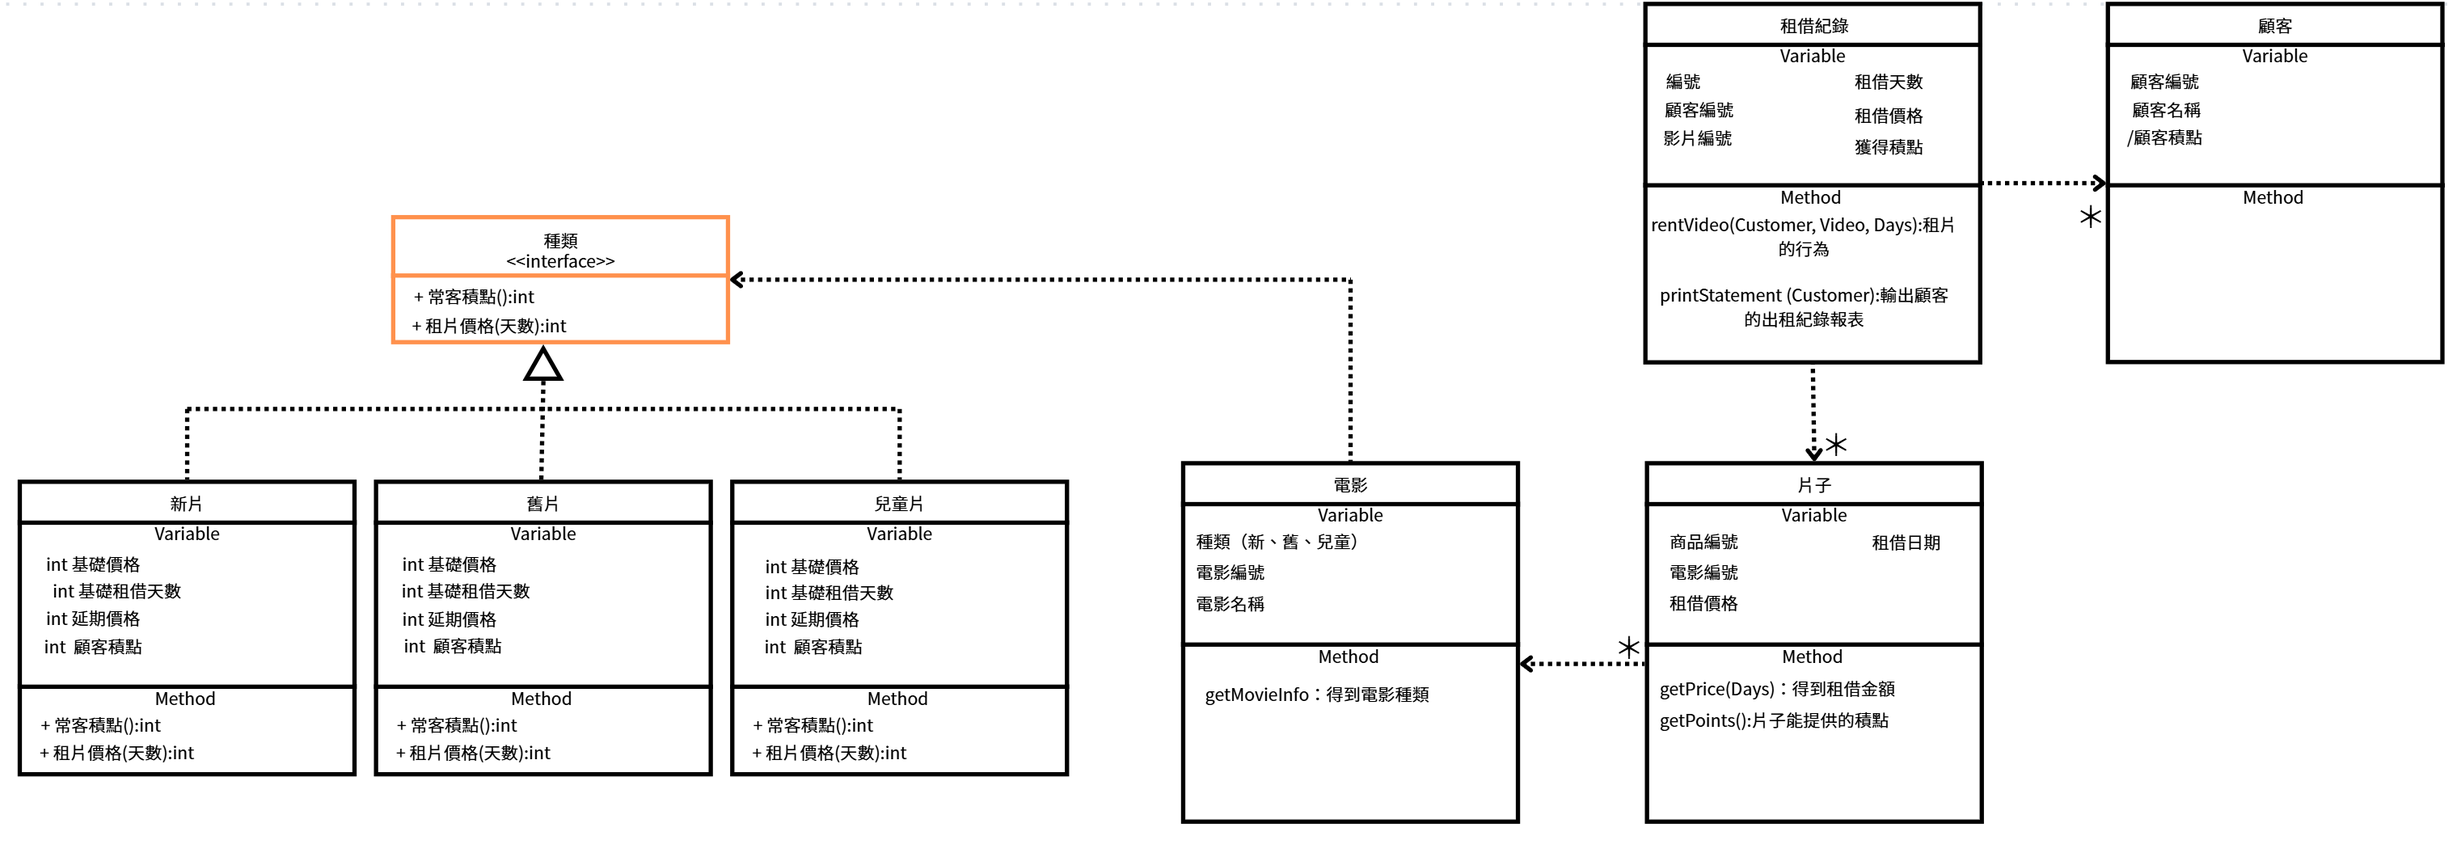
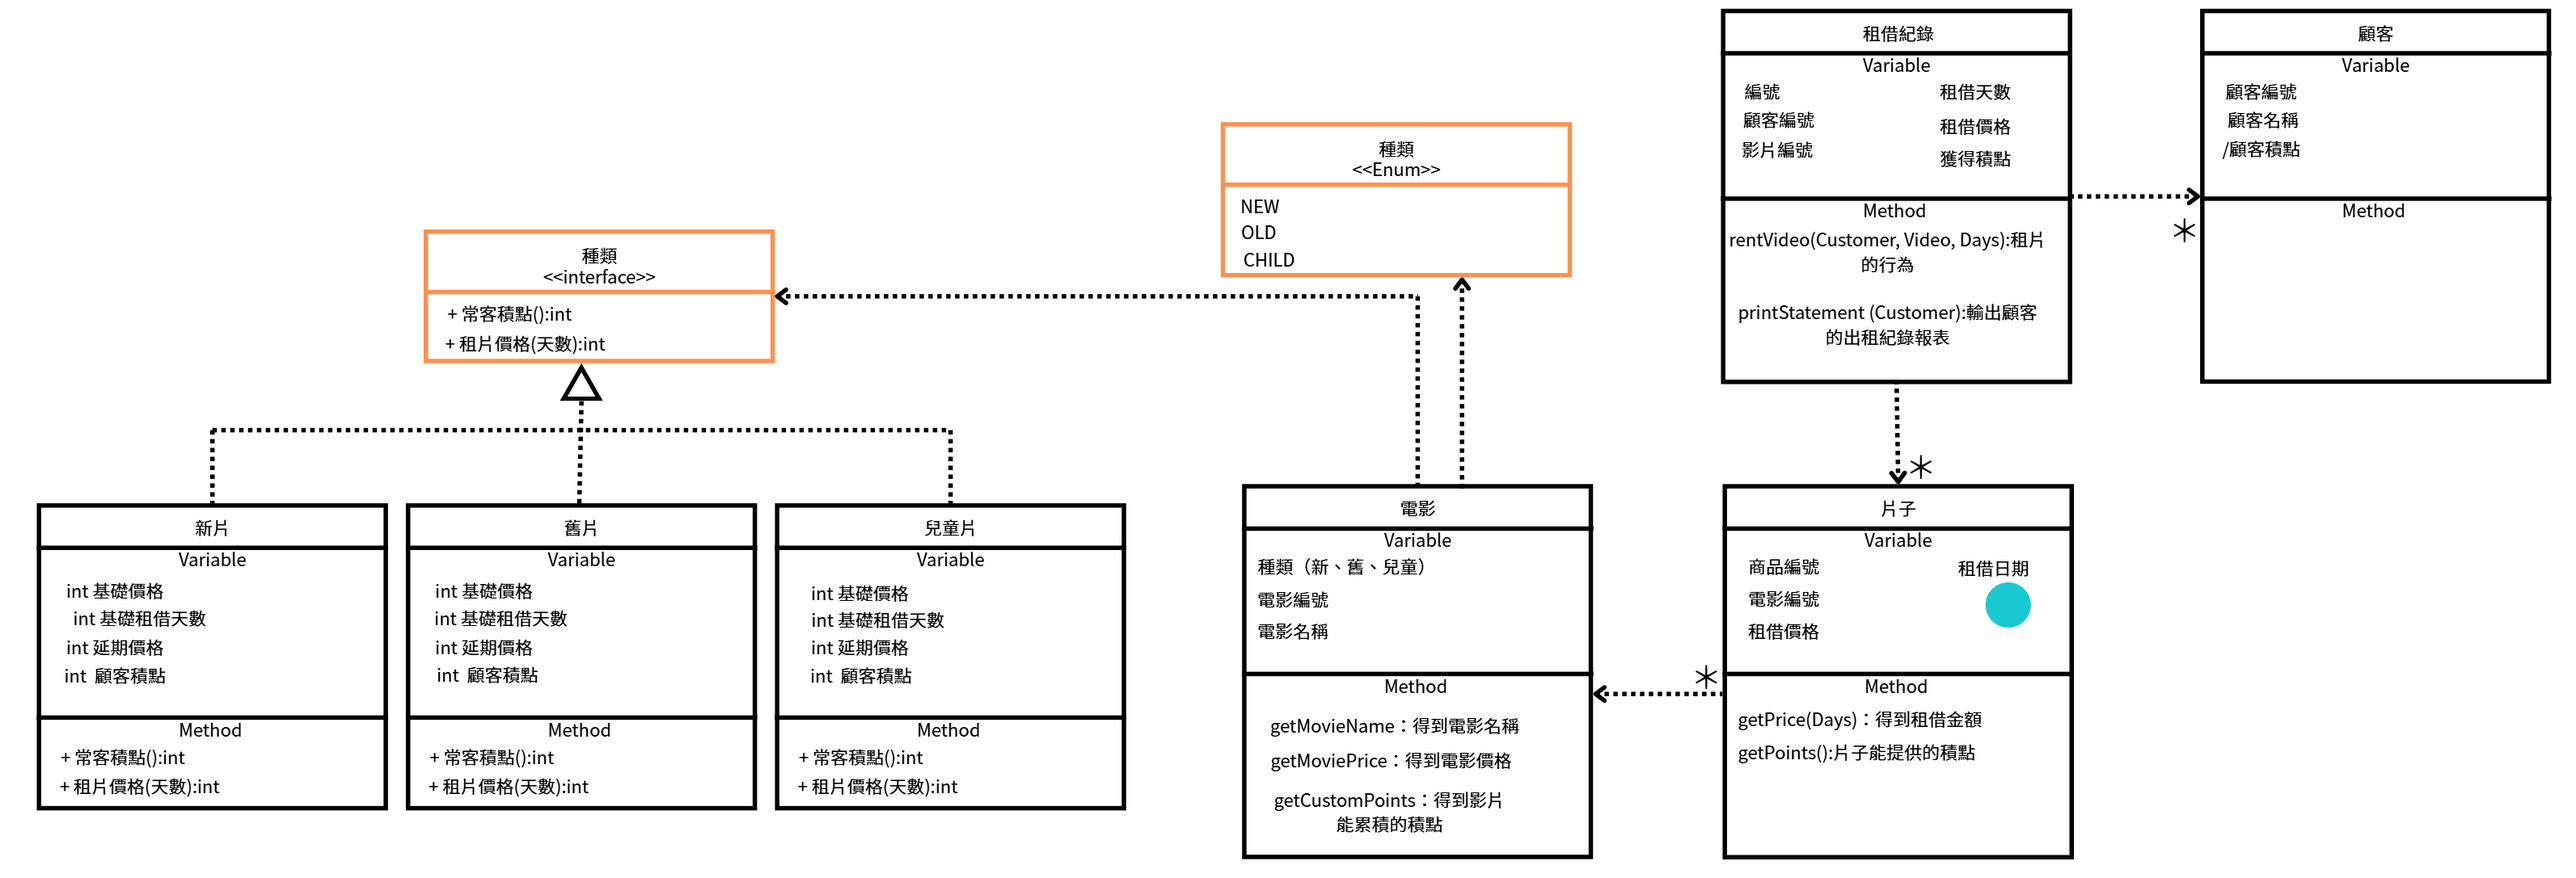
更新UML以及將片種轉為Design Pattern State

diff --git a/src/VideoRent/RentRecord.java b/src/VideoRent/RentRecord.java
@@ -8,11 +8,13 @@ public class RentRecord {
 		public Video video;
 		public int days;
 		public int price;
-		RecordEntry(Customer customer, Video video, int days, int price){
+		public float points;
+		RecordEntry(Customer customer, Video video, int days, int price, float points){
 			this.customer = customer;
 			this.video = video;
 			this.days = days;
 			this.price = price;
+			this.points = points;
 		}
 	}
 	private ArrayList<RecordEntry> RecordList;
@@ -22,22 +24,23 @@ public class RentRecord {
 	public void rentVideo(Customer customer, Video video, int days) {
 		int price = video.getPrice(days);
 		float points = video.getPoints();
-		RecordEntry entry = new RecordEntry(customer, video, days, price);
-		customer.addPoints(points);
+		RecordEntry entry = new RecordEntry(customer, video, days, price, points);
 		RecordList.add(entry);
 	}
 	public void printStatement(Customer customer) {
 		System.out.println("===================");
 		System.out.println(customer.getName()+ "曾經租過的片子：");
 		int totalPrice = 0;
+		float totalCustomerPoints = 0;
 		for(RecordEntry entry:RecordList) {
 			if(entry.customer.getID() == customer.getID()) {
-				System.out.println(entry.video.getMovieName()+ "\t" + entry.days + " 天" + "花費：" + entry.price + "美元");
+				System.out.println(entry.video.getMovieName()+ " " + entry.days + " 天 " + "花費：" + entry.price + "美元");
 				totalPrice += entry.price;
+				totalCustomerPoints += entry.points;
 			}
 		}
 		System.out.println("總消費金額：" + totalPrice + " 美元");
-		System.out.println("常客積點總數：" + customer.getPoints());
+		System.out.println("常客積點總數：" + totalCustomerPoints);
 		System.out.println("===================\n");
 		
 	}

diff --git a/src/VideoRent/Movie.java b/src/VideoRent/Movie.java
@@ -1,18 +1,41 @@
 package VideoRent;
 
+import VideoRent.MovieTypes.MovieTypes;
+import VideoRent.MovieTypes.NewMovie;
+import VideoRent.MovieTypes.OldMovie;
+import VideoRent.MovieTypes.ChildMovie;
+
 public class Movie {
 	private String MovieId;
 	private String Name;
-	private MovieType type;
+	private MovieTypes type;
 	Movie(String MovieId, String Name, MovieType type){
 		this.MovieId = MovieId;
 		this.Name = Name;
-		this.type = type;
+		if(type == MovieType.NEW) {
+			this.type = new NewMovie();
+		}
+		else if(type == MovieType.OLD) {
+			this.type = new OldMovie();
+		}
+		else if(type == MovieType.CHILD) {
+			this.type = new ChildMovie();
+		}
+		else {
+			System.out.println("未知的片種");
+		}
 	}
-	public MovieType getMovieInfo() {
-		return type;
-	}
+
 	public String getMovieName() {
 		return Name;
 	}
+	
+	public int getMoviePrice(int days) {
+		return type.RentPrice(days);
+	}
+	
+	public float getCustomPoints() {
+		return type.CustomerPoint();
+	}
+	
 }

diff --git a/src/VideoRent/Video.java b/src/VideoRent/Video.java
@@ -7,32 +7,12 @@ public class Video {
 		this.VideoID = VideoID;
 		this.movie = movie;
 	}
-	private int CountPrice(int baseDays, int basePrices, int OverDuePrice, int RealDays) {
-		return basePrices + Math.max(0, RealDays-baseDays)*OverDuePrice;
-	}
+
 	public int getPrice(int days) {
-		MovieType type = movie.getMovieInfo();
-		if(type == MovieType.NEW) {
-			return CountPrice(1, 3, 2, days);
-		}
-		else if(type == MovieType.OLD) {
-			return CountPrice(3, 2, 1, days);
-		}
-		else {
-			return CountPrice(5, 2, 1, days);
-		}
+		return movie.getMoviePrice(days);
 	}
 	public float getPoints() {
-		MovieType type = movie.getMovieInfo();
-		if(type == MovieType.NEW) {
-			return (float)2.0;
-		}
-		else if(type == MovieType.OLD) {
-			return (float)1.0;
-		}
-		else {
-			return (float)0.5;
-		}
+		return movie.getCustomPoints();
 	}
 	public String getMovieName(){
 		return movie.getMovieName();

diff --git a/src/VideoRent/MovieTypes/ChildMovie.java b/src/VideoRent/MovieTypes/ChildMovie.java
@@ -1,5 +1,19 @@
 package VideoRent.MovieTypes;
 
-public class ChildMovie {
+public class ChildMovie implements MovieTypes {
+	
+	private int BasePrice = 2;
+	private int BaseDays = 5;
+	private int DelayPrice = 1;
+	private float CustomerPoints = (float)0.5;
+	
+	public float CustomerPoint() {
+		return CustomerPoints;
+	}
+	public int RentPrice(int days) {
+		return BasePrice + Math.max(0, days-BaseDays)*DelayPrice;
+	}
+
+
 
 }

diff --git a/src/VideoRent/MovieTypes/OldMovie.java b/src/VideoRent/MovieTypes/OldMovie.java
@@ -1,5 +1,18 @@
 package VideoRent.MovieTypes;
 
-public class OldMovie {
+public class OldMovie implements MovieTypes {
+	
+	private int BasePrice = 3;
+	private int BaseDays = 1;
+	private int DelayPrice = 1;
+	private float CustomerPoints = (float)1.0;
+	
+	public float CustomerPoint() {
+		return CustomerPoints;
+	}
+	public int RentPrice(int days) {
+		return BasePrice + Math.max(0, days-BaseDays)*DelayPrice;
+	}
+
 
 }

diff --git a/src/VideoRent/MovieTypes/NewMovie.java b/src/VideoRent/MovieTypes/NewMovie.java
@@ -1,5 +1,17 @@
 package VideoRent.MovieTypes;
 
-public class NewMovie {
+public class NewMovie implements MovieTypes{
+	private int BasePrice = 3;
+	private int BaseDays = 1;
+	private int DelayPrice = 2;
+	private float CustomerPoints = (float)2.0;
+	
+	public float CustomerPoint() {
+		return CustomerPoints;
+	}
+	public int RentPrice(int days) {
+		return BasePrice + Math.max(0, days-BaseDays)*DelayPrice;
+	}
+
 
 }

diff --git a/src/VideoRent/Customer.java b/src/VideoRent/Customer.java
@@ -3,17 +3,9 @@ package VideoRent;
 public class Customer {
 	private String CustomerID;
 	private String Name;
-	private float Points;
 	Customer(String CustomerID, String Name){
 		this.CustomerID = CustomerID;
 		this.Name = Name;
-		Points = 0;
-	}
-	public void addPoints(float points) {
-		Points += points;
-	}
-	public float getPoints() {
-		return Points;
 	}
 	public String getName() {
 		return Name;

diff --git a/src/VideoRent/MovieTypes/MovieTypes.java b/src/VideoRent/MovieTypes/MovieTypes.java
@@ -1,5 +1,8 @@
 package VideoRent.MovieTypes;
 
 public interface MovieTypes {
+	
+	public float CustomerPoint();
+	public int RentPrice(int days);
 
 }

diff --git a/src/VideoRent/MovieType.java b/src/VideoRent/MovieType.java
@@ -1,0 +1,7 @@
+package VideoRent;
+
+public enum MovieType {
+	NEW,
+	OLD,
+	CHILD
+}
